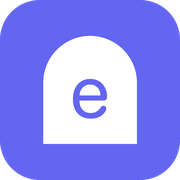
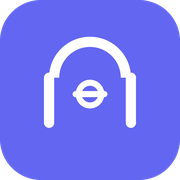
统一图标为描边拱门+简笔e(品牌规范版)，bump 202608181030

diff --git a/sw.js b/sw.js
@@ -1,4 +1,4 @@
-const VERSION = 'assetbook-202608180043';
+const VERSION = 'assetbook-202608181030';
 const ASSETS = ['./', './index.html', './styles.css', './core.js', './gist.js', './ui.js', './trades.js',
                 './manifest.json', './icons/icon-192.png', './icons/icon-512.png',
                 './icons/apple-touch-icon.png', './icons/favicon.png'];

diff --git a/ui.js b/ui.js
@@ -1,7 +1,7 @@
 /* global Core, Gist, Trades */
 'use strict';
 const LS_KEY = 'assetbook.v1';
-const BUILD_ID = '202608180043';
+const BUILD_ID = '202608181030';
 const $ = sel => document.querySelector(sel);
 
 let state = loadState();
